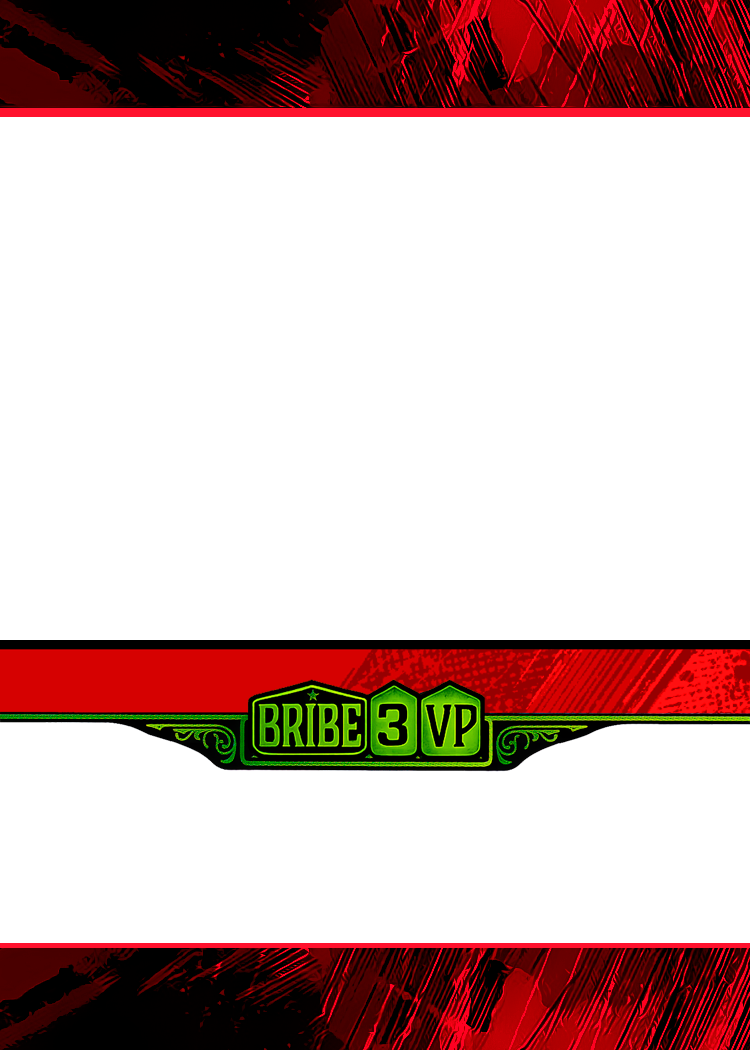
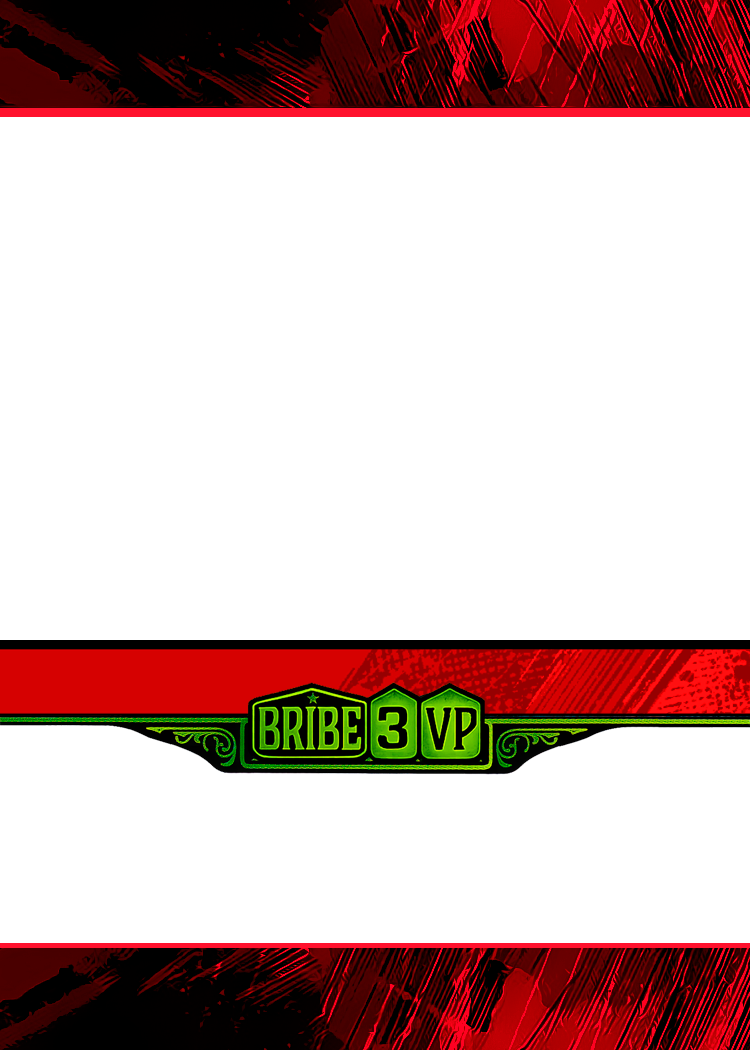
implement bribe dropbox and cards

Changed region(s): [[0.0, 0.64, 1.0, 0.7619]]

diff --git a/src/gui/tabs/live-editor/live-editor.ts b/src/gui/tabs/live-editor/live-editor.ts
@@ -401,9 +401,9 @@ export class LiveEditorTab extends Tab {
         let desiredOptions = [""];
 
         if (type === "Hero" || type === "Herói") {
-            desiredOptions = ["", "Super Hero", "Infinity War", "Crisis", "Speedster", "Symbiote", "Hero lvl 1", "Hero lvl 2", "Hero lvl 3", "Hero lvl 4"];
+            desiredOptions = ["", "Super Hero", "Infinity War", "Crisis", "Speedster", "Symbiote", "Hero lvl 1", "Hero lvl 2", "Hero lvl 3", "Hero lvl 4", "Bribe 1", "Bribe 2", "Bribe 3", "Bribe 4", "Bribe 5"];
         } else if (type === "Villain" || type === "Vilão") {
-            desiredOptions = ["", "Super-Villain", "Infinity War", "Crisis", "Speedster", "Symbiote", "Impossible", "Villain lvl 1", "Villain lvl 2", "Villain lvl 3"];
+            desiredOptions = ["", "Super-Villain", "Infinity War", "Crisis", "Speedster", "Symbiote", "Impossible", "Villain lvl 1", "Villain lvl 2", "Villain lvl 3", "Bribe 1", "Bribe 2", "Bribe 3", "Bribe 4", "Bribe 5"];
         } else if (type === "Equipment" || type === "Equipamento") {
             desiredOptions = ["", "Symbiote"];
         }

diff --git a/src/cards/card/card.ts b/src/cards/card/card.ts
@@ -414,6 +414,17 @@ export class Card {
             } else if (this.type === "Equipamento") {
                 spriteName = "Symbiote equipamento";
             }
+        } else if (this.variant.indexOf("Bribe") === 0 && !this.oversized) {
+            const lvl = this.variant.split(" ")[1];
+            if (this.type === "Hero") {
+                spriteName = `hero bribe ${lvl}`;
+            } else if (this.type === "Herói" || this.type === "Heroi") {
+                spriteName = `herói suborno ${lvl}`;
+            } else if (this.type === "Villain") {
+                spriteName = `villain bribe ${lvl}`;
+            } else if (this.type === "Vilão" || this.type === "Vilao") {
+                spriteName = `vilão suborno ${lvl}`;
+            }
         } else {
             backgroundType = this.type;
             if (this.variant === "Super Hero" || this.variant === "Super-Villain" || this.oversized) {

diff --git a/src/gui/tabs/live-editor/live-editor-tables.ts b/src/gui/tabs/live-editor/live-editor-tables.ts
@@ -160,7 +160,7 @@ export const cardsHeadings: IColumnData[] = [
     },
     {
         name: "Variant",
-        allowedValues: ["", "Super Hero", "Super-Villain", "Impossible", "Hero lvl 1", "Hero lvl 2", "Hero lvl 3", "Hero lvl 4", "Villain lvl 1", "Villain lvl 2", "Villain lvl 3", "Infinity War", "Crisis", "Speedster", "Symbiote"],
+        allowedValues: ["", "Super Hero", "Super-Villain", "Impossible", "Hero lvl 1", "Hero lvl 2", "Hero lvl 3", "Hero lvl 4", "Villain lvl 1", "Villain lvl 2", "Villain lvl 3", "Infinity War", "Crisis", "Speedster", "Symbiote", "Bribe 1", "Bribe 2", "Bribe 3", "Bribe 4", "Bribe 5"],
     },
     {
         name: "Oversized",
